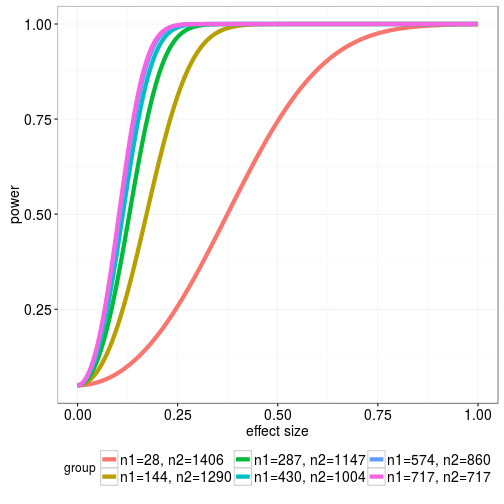
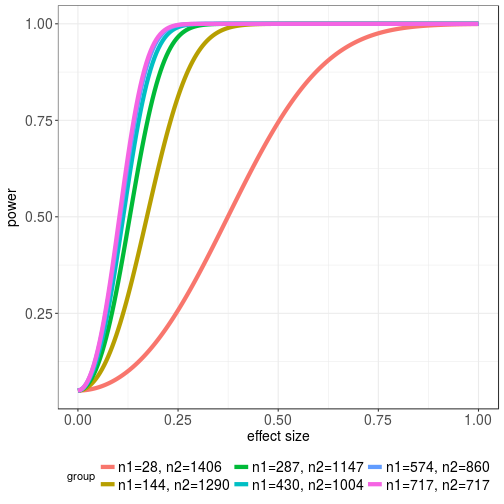
fixed posts

diff --git a/_posts/2015-06-10-heatmaps.md b/_posts/2015-06-10-heatmaps.md
@@ -50,12 +50,12 @@ genes[1:5, 1:5]
 
 
 {% highlight text %}
-##               Gene1      Gene2      Gene3      Gene4      Gene5
-## Subject1  1.5651139 -1.3770913 -0.1884944 -1.3881706  0.3973104
-## Subject2  0.6330296  1.6078952  0.4497532  0.3617416  0.0239570
-## Subject3  0.1445941 -0.7031031 -1.4322957 -1.7249477  1.0253219
-## Subject4 -0.5571328  0.5537755 -0.2217346  0.2692243  0.1557332
-## Subject5  0.7988639  1.1591408 -0.5245020 -1.5323532 -1.9766331
+##                Gene1       Gene2       Gene3      Gene4      Gene5
+## Subject1 -0.21388363 -0.73895778 -1.62244200 -0.7670910 -1.2893051
+## Subject2  0.05414553 -0.07205968  1.02942663  0.5194605  2.9329446
+## Subject3  0.12213000 -0.56763583  0.06170327  1.7873641  1.1564475
+## Subject4 -0.48278782  0.41785909  0.12291973  0.5366555  1.0984578
+## Subject5 -0.22778084  0.03460818 -0.31902682  1.8980194 -0.3785006
 {% endhighlight %}
 
 ----
@@ -74,6 +74,7 @@ to representing nominal or categorical data
 To see the palettes available for coloring the heatmap:
 
 {% highlight r %}
+pacman::p_load(RColorBrewer)
 RColorBrewer::display.brewer.all()
 {% endhighlight %}
 
@@ -114,11 +115,11 @@ head(annotation_col)
 {% highlight text %}
 ##          Exposure   Type
 ## Subject1      X=0 B-cell
-## Subject2      X=0 T-cell
-## Subject3      X=0 T-cell
-## Subject4      X=0 B-cell
-## Subject5      X=0 B-cell
-## Subject6      X=0 T-cell
+## Subject2      X=0 B-cell
+## Subject3      X=0 B-cell
+## Subject4      X=0 T-cell
+## Subject5      X=0 T-cell
+## Subject6      X=0 B-cell
 {% endhighlight %}
 
 We also want to annotate information on the genes, such as pathway membership. To do so, we create another data frame which has the gene annotations. Note once again that the rownames of this data frame need to correspond to the columnames i.e. Gene IDs of the gene expression data created above.
@@ -153,6 +154,7 @@ You need to decide if its important to cluster the rows and/or columns of your h
 The pheatmap comes with lots of customizations (see the [help page](http://cran.r-project.org/web/packages/pheatmap/pheatmap.pdf) for a complete list of options). In this example I only want to cluster the genes (i.e. the rows), and place a gap between subject who were exposed and unexposed. Note that we must pass the transpose of the matrix for the `pheatmap` function, which is not the case for other functions such as `gplots::heatmap.2`.
 
 {% highlight r %}
+pacman::p_load(pheatmap)
 pheatmap::pheatmap(t(genes), 
                    cluster_row = T,
                    cluster_cols = F,
@@ -165,11 +167,7 @@ pheatmap::pheatmap(t(genes),
                    gaps_col=50)
 {% endhighlight %}
 
-
-
-{% highlight text %}
-## Error in loadNamespace(name): there is no package called 'pheatmap'
-{% endhighlight %}
+<img src="/figure/posts/2015-06-10-heatmaps/unnamed-chunk-8-1.png" title="plot of chunk unnamed-chunk-8" alt="plot of chunk unnamed-chunk-8" style="display: block; margin: auto;" />
 
 
 ----
@@ -182,8 +180,7 @@ It is also possible to create Interactive heatmaps (in the sense that you can se
 
 
 {% highlight r %}
-if (!require("devtools")) install.packages("devtools")
-devtools::install_github("rstudio/d3heatmap")
+pacman::p_install_gh("rstudio/d3heatmap")
 {% endhighlight %}
 
 This is useful if you are producible markdown reports. The syntax is standard, though does not allow for multiple annotations as in `pheatmap`.
@@ -191,24 +188,13 @@ This is useful if you are producible markdown reports. The syntax is standard, t
 
 {% highlight r %}
 library(d3heatmap)
-{% endhighlight %}
-
-
-
-{% highlight text %}
-## Error in library(d3heatmap): there is no package called 'd3heatmap'
-{% endhighlight %}
-
-
-
-{% highlight r %}
 d3heatmap(t(genes), colors = "Reds", Colv = FALSE)
 {% endhighlight %}
 
 
 
 {% highlight text %}
-## Error in eval(expr, envir, enclos): could not find function "d3heatmap"
+## Error in loadNamespace(name): there is no package called 'webshot'
 {% endhighlight %}
 
 For some reason, this map is not showing up on this website, but it should work when compiling Rmarkdown scripts and viewing the resulting HTML document in your browser or within RStudio.
@@ -222,7 +208,7 @@ After some user setup (see the plotly [help page](https://plot.ly/r/getting-star
 
 {% highlight r %}
 expression <- t(genes)
-plot_ly(z = expression, colorscale = col.pal, type = "heatmap")
+plotly::plot_ly(z = expression, colorscale = col.pal, type = "heatmap")
 {% endhighlight %}
 
 

diff --git a/_posts/2016-02-25-power_ttest_sample_size.md b/_posts/2016-02-25-power_ttest_sample_size.md
@@ -10,60 +10,14 @@ comments: yes
 ---
 
 
-{% highlight text %}
-## Error in library(pwr): there is no package called 'pwr'
-{% endhighlight %}
 
 
 
-{% highlight text %}
-## Error: could not find function "pwr.t2n.test"
-{% endhighlight %}
-
-
-
-{% highlight text %}
-## Warning in seq_len(nrow(ptab)): first element used of 'length.out'
-## argument
-{% endhighlight %}
-
-
-
-{% highlight text %}
-## Error in seq_len(nrow(ptab)): argument must be coercible to non-negative integer
-{% endhighlight %}
-
-
-
-{% highlight text %}
-## Error in `colnames<-`(`*tmp*`, value = c("id", "n1=28, n2=1406.effect size", : attempt to set 'colnames' on an object with less than two dimensions
-{% endhighlight %}
-
-
-
-{% highlight text %}
-## Error in combine_vars(vars, ind_list): Position must be between 0 and n
-{% endhighlight %}
-
-
-
-{% highlight text %}
-## Error in factor(temp$group, levels = c("n1=28, n2=1406", "n1=144, n2=1290", : object 'temp' not found
-{% endhighlight %}
 
 
 When performing [Student's t-test](https://en.wikipedia.org/wiki/Student%27s_t-test) to compare difference in means between two group, it is a useful exercise to determine the effect of unequal sample sizes in the comparison groups on power. Large imbalances generally will not have adequate statistical power to detect even large effect sizes associated with a factor, leading to a high Type II error rate as shown in the figure below:
 
-
-{% highlight text %}
-## Error in ggplot(temp, aes(x = `effect size`, y = power, color = group)): object 'temp' not found
-{% endhighlight %}
-
-
-
-{% highlight text %}
-## Error in eval(expr, envir, enclos): object 'p' not found
-{% endhighlight %}
+![plot of chunk unnamed-chunk-2](/figure/posts/2016-02-25-power_ttest_sample_size/unnamed-chunk-2-1.png)
 
 <!--more-->
 

diff --git a/_posts/2016-02-08-facet_wrap_labels.md b/_posts/2016-02-08-facet_wrap_labels.md
@@ -15,20 +15,16 @@ In this post I show how we can use $$\LaTeX$$ math expressions to label the pane
 
 
 {% highlight text %}
-## Error in library(latex2exp): there is no package called 'latex2exp'
-{% endhighlight %}
-
-
-
-{% highlight text %}
 ## Error in r_files[[which]]: invalid subscript type 'closure'
 {% endhighlight %}
 
 
 
 {% highlight text %}
-## Error in labs(x = label): could not find function "TeX"
+## Error in combine_vars(data, params$plot_env, vars, drop = params$drop): At least one layer must contain all variables used for facetting
 {% endhighlight %}
+
+<img src="/figure/posts/2016-02-08-facet_wrap_labels/unnamed-chunk-1-1.png" title="plot of chunk unnamed-chunk-1" alt="plot of chunk unnamed-chunk-1" style="display: block; margin: auto;" />
 
 
 
